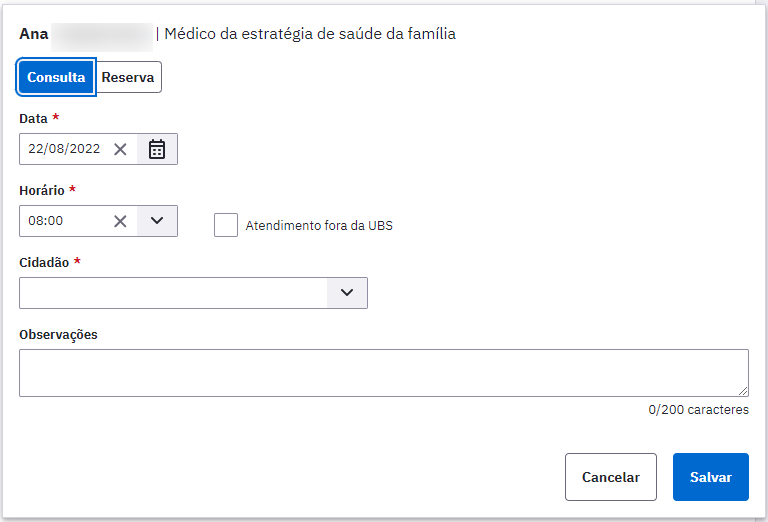
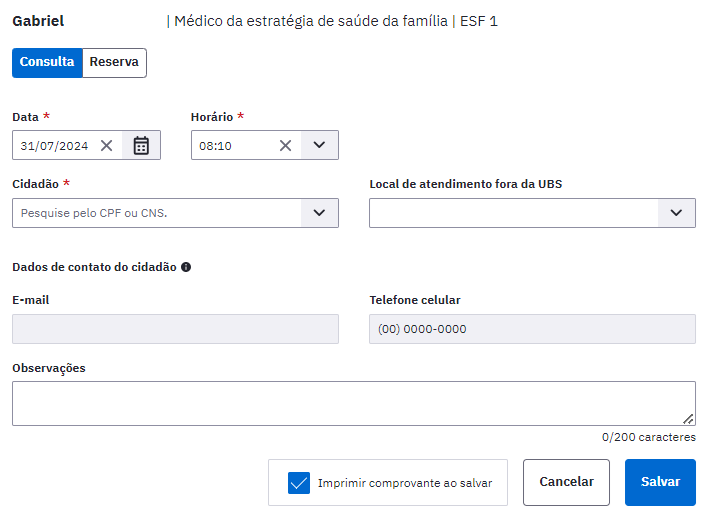
ATUALIZAÇÕES AGENDA
IMAGENS E TEXTOS

diff --git a/docs/PEC/PEC_05_agenda.md b/docs/PEC/PEC_05_agenda.md
@@ -37,7 +37,7 @@ Figura 5.1 - Tela da agenda
 
 ![](media/pec_image272.png)
 
-Fonte: SAS/MS.
+Fonte: SAPS/MS.
 
 # 5.1 Agendar uma Consulta
 
@@ -108,15 +108,20 @@ Para os horários configurados para agendamento online, não é possível realiz
 
 ## 5.1.1 Agendar atendimento fora da UBS
 
-Para utilizar o recurso de adicionar o cidadão na agenda para os atendimentos a serem realizados fora da UBS, basta seguir o passo a passo de agendar uma consulta, descrita no capítulo 5.1. Entretanto, para esta funcionalidade, clique no box \"Atendimento fora da UBS\" e selecionar o local de atendimento, observe a figura 5.2. Após salvar o agendamento apresentará a mensagem com a hora em que foi marcado, o nome do cidadão e a mensagem \"AGENDAMENTO FORA DA UBS\", conforme a figura abaixo.
+Para utilizar o recurso de adicionar o cidadão na agenda para os atendimentos a serem realizados fora da UBS, basta seguir o passo a passo de agendar uma consulta, descrita no capítulo 5.1. Entretanto, para esta funcionalidade, clique no box \"Local de Atendimento fora da UBS\" e selecionar o local de atendimento, observe a figura 5.3. 
+
 
 Figura 5.3 - Agendamento fora da UBS
 
-![](media/pec_image286.png)
+![](media/pec_image1121.png)
+
+Após salvar o agendamento apresentará a mensagem com a hora em que foi marcado, o nome do cidadão, seguido do contato cadastrado e o local de atendimento fora da UBS, conforme a figura abaixo.
+
+![](media//pec_image1122.png)
 
 {: .dica }
 Quando o cidadão é colocado na agenda como agendamento fora da UBS, automaticamente aparecerá na lista de registro tardio de atendimento no dia agendado. Para saber mais sobre o registro tardio de atendimento consulte o capítulo 6.6.
-![](media/pec_image927.png)
+
 
 ## 5.1.2 Adicionar Cidadão na Lista de Atendimentos
 
